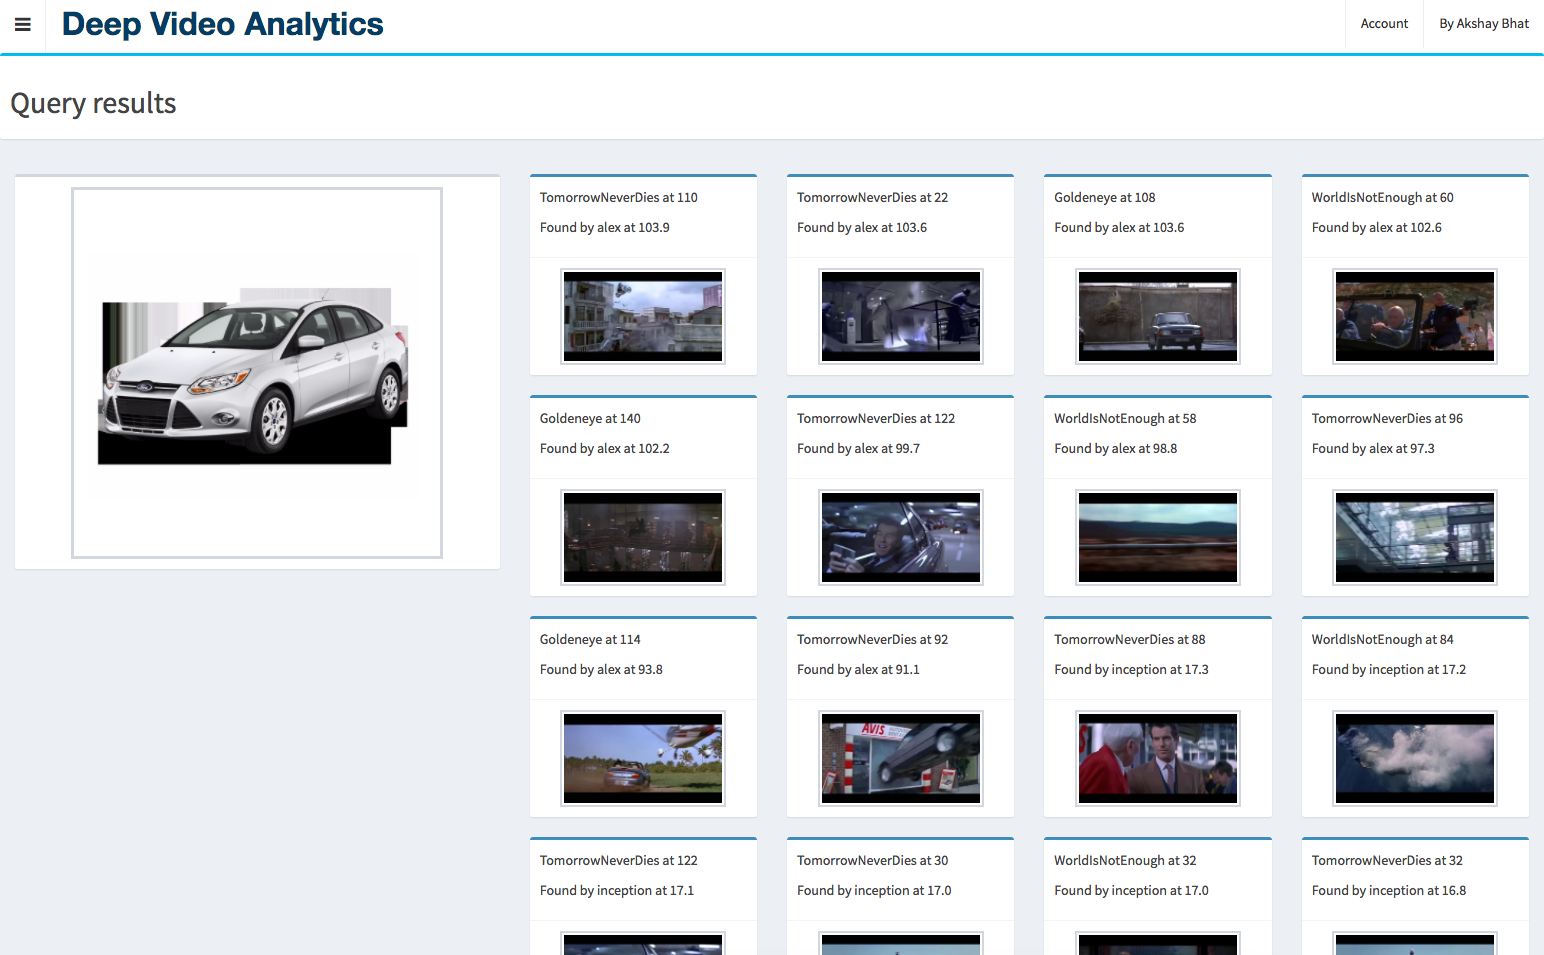
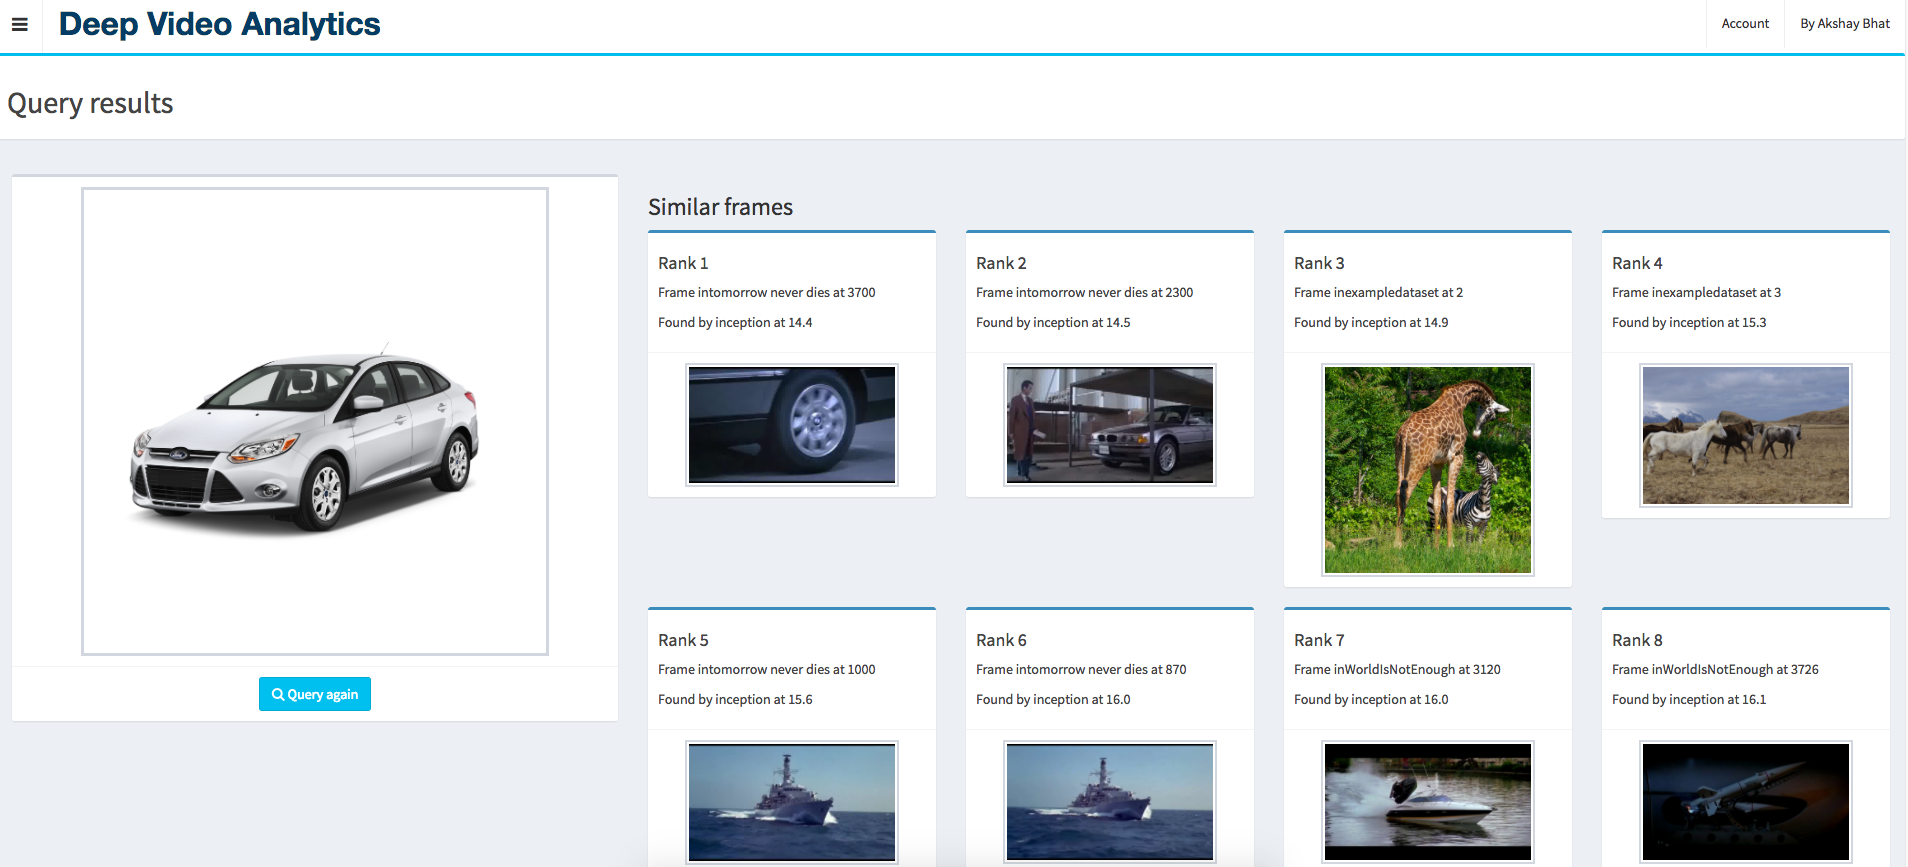
updated UI screenshots for the latest version

diff --git a/readme.md b/readme.md
@@ -100,15 +100,20 @@ Following options can be specified in docker-compose.yml, or your environment to
 ![Architecture](notes/architecture.png "System architecture")
 
 ## User Interface 
-### Search
+#### Search across frames
 ![UI Screenshot](notes/search.png "search")
-### Past queries
+#### And specific detected objects such as Faces
+![UI Screenshot](notes/face_recognition.png "face recognition")
+#### Past queries
+![UI Screenshot](notes/query_list.png "past queries")
 ![UI Screenshot](notes/past_query.png "past queries")
-### Video list / detail
+#### Video list / detail
 ![UI Screenshot](notes/video_list.png "Video list")
 ![UI Screenshot](notes/video_detail.png "detail")
-### Frame detail
+#### Frame detail
 ![UI Screenshot](notes/frame_detail.png "Frame detail")
+#### View status of running tasks/queries, retry/rerun failed tasks
+![UI Screenshot](notes/status.png "Frame detail")
 
 ## Libraries & Code used
 
